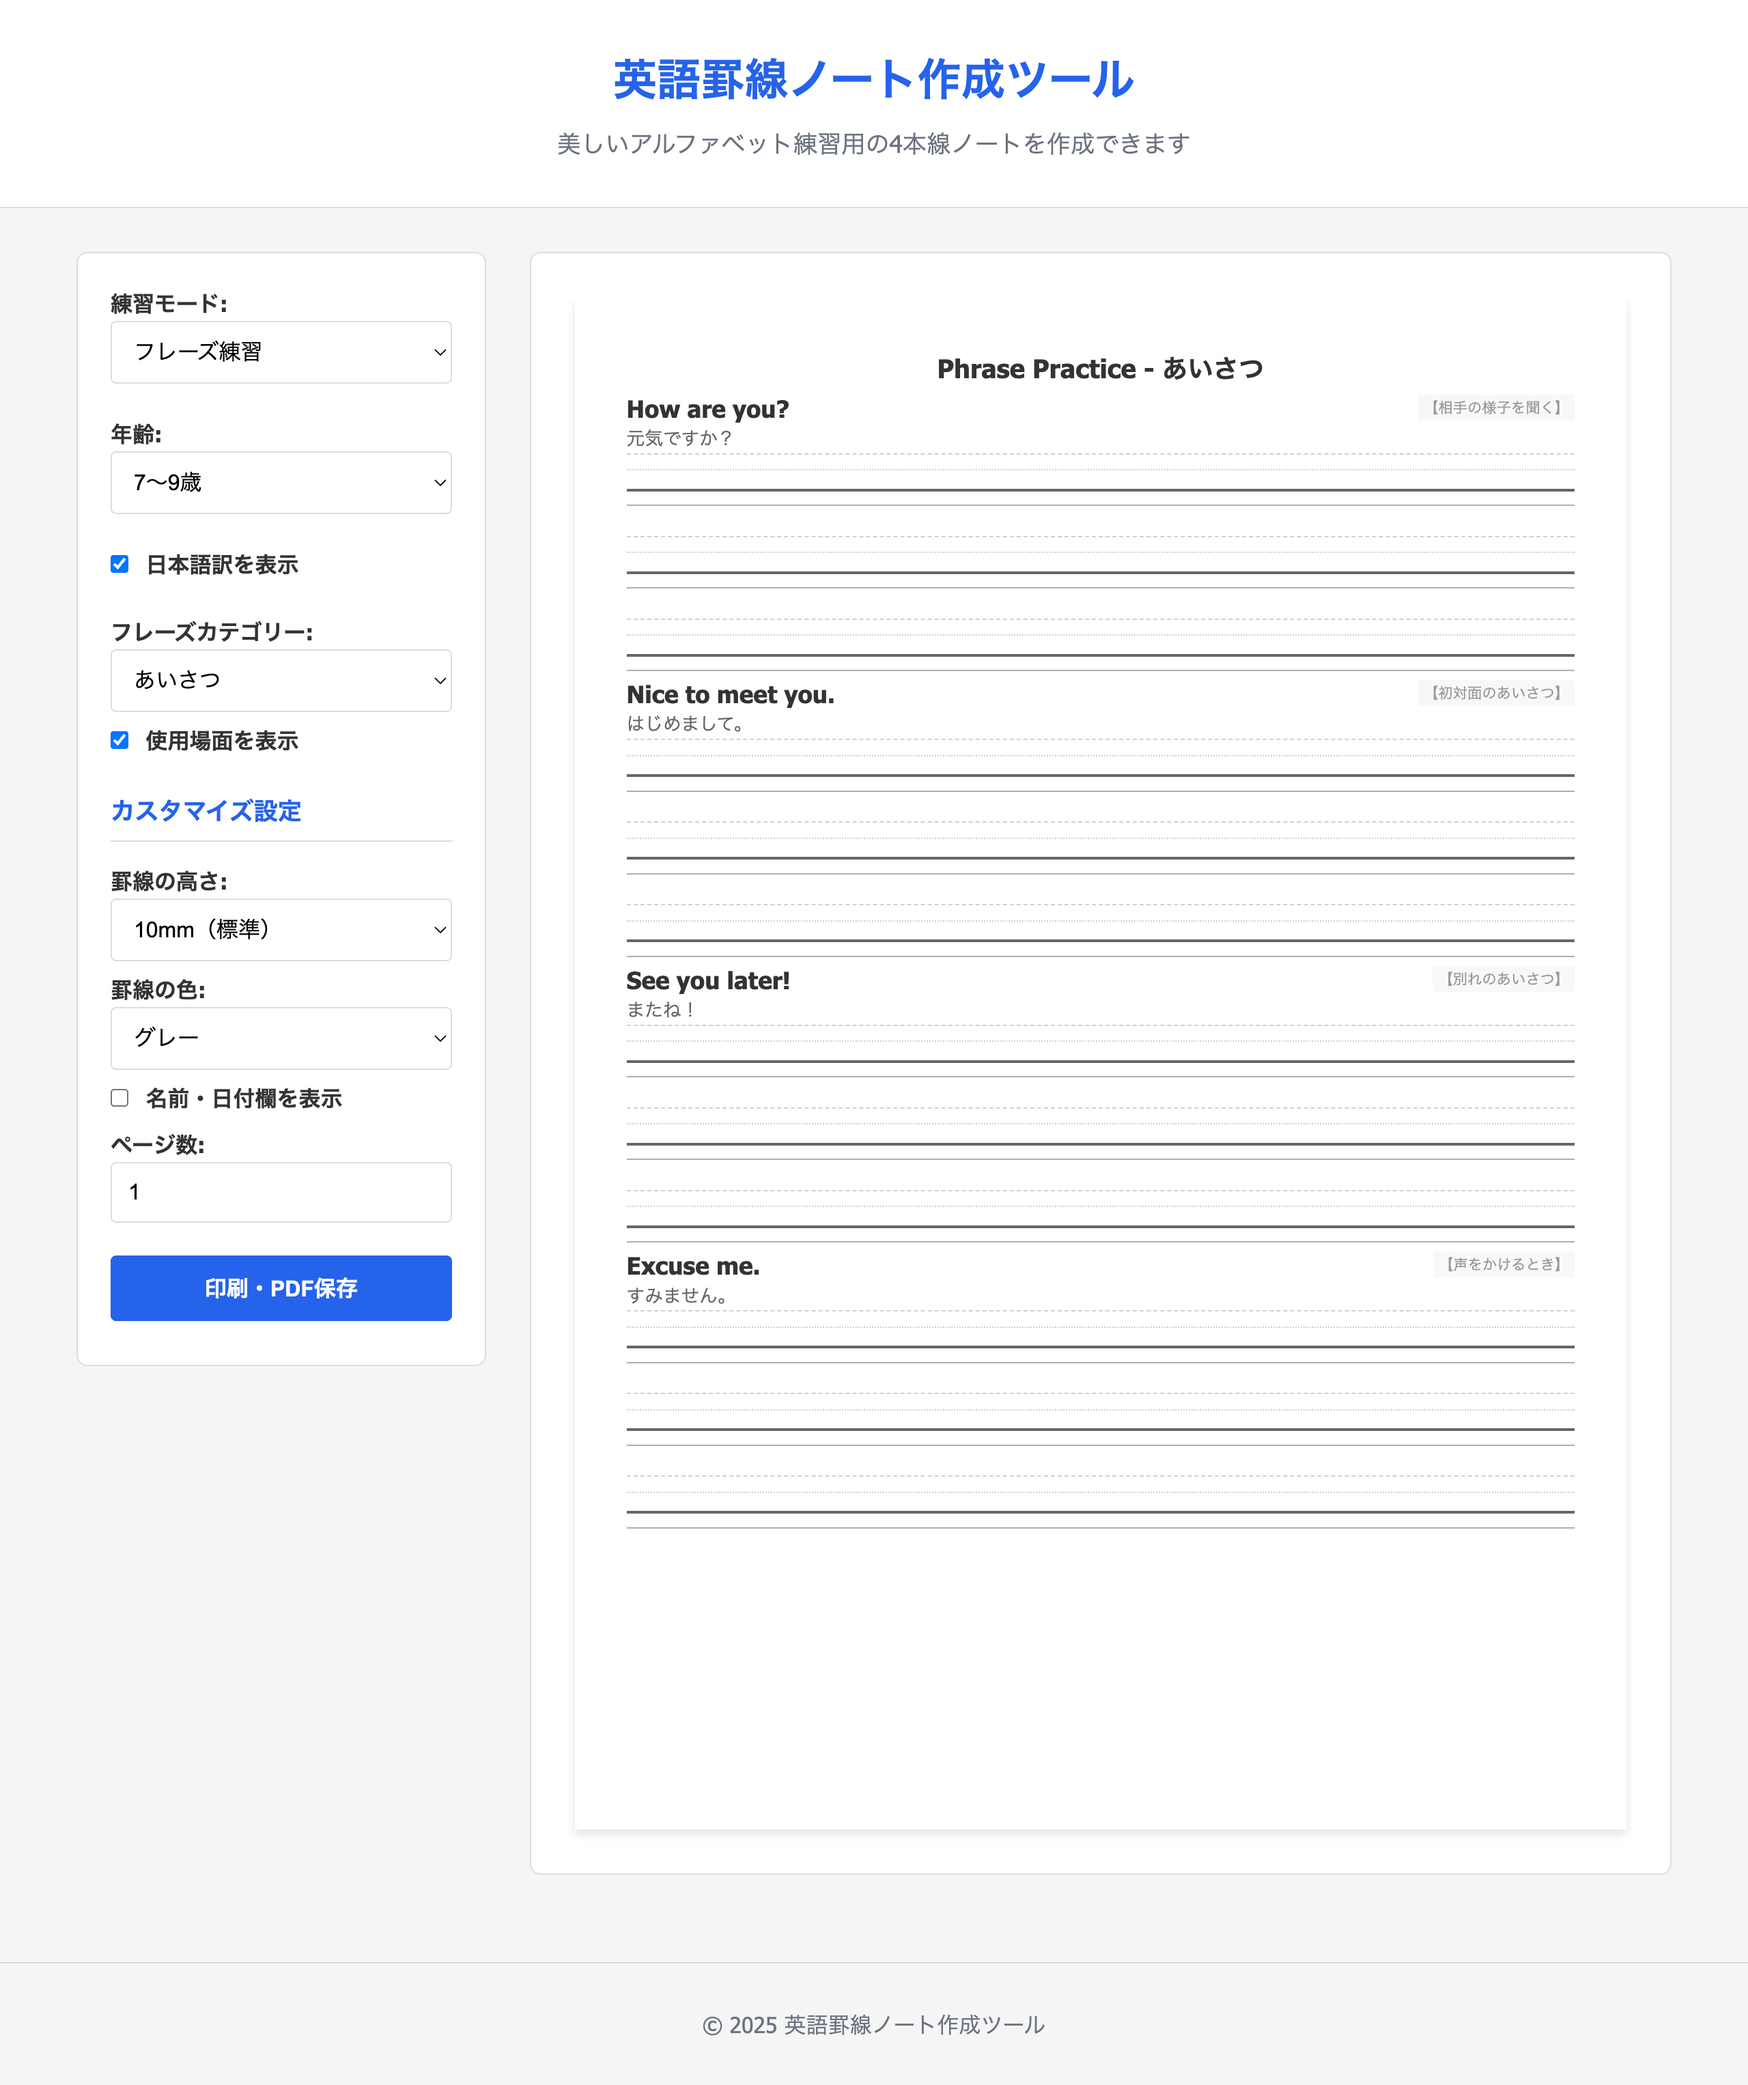
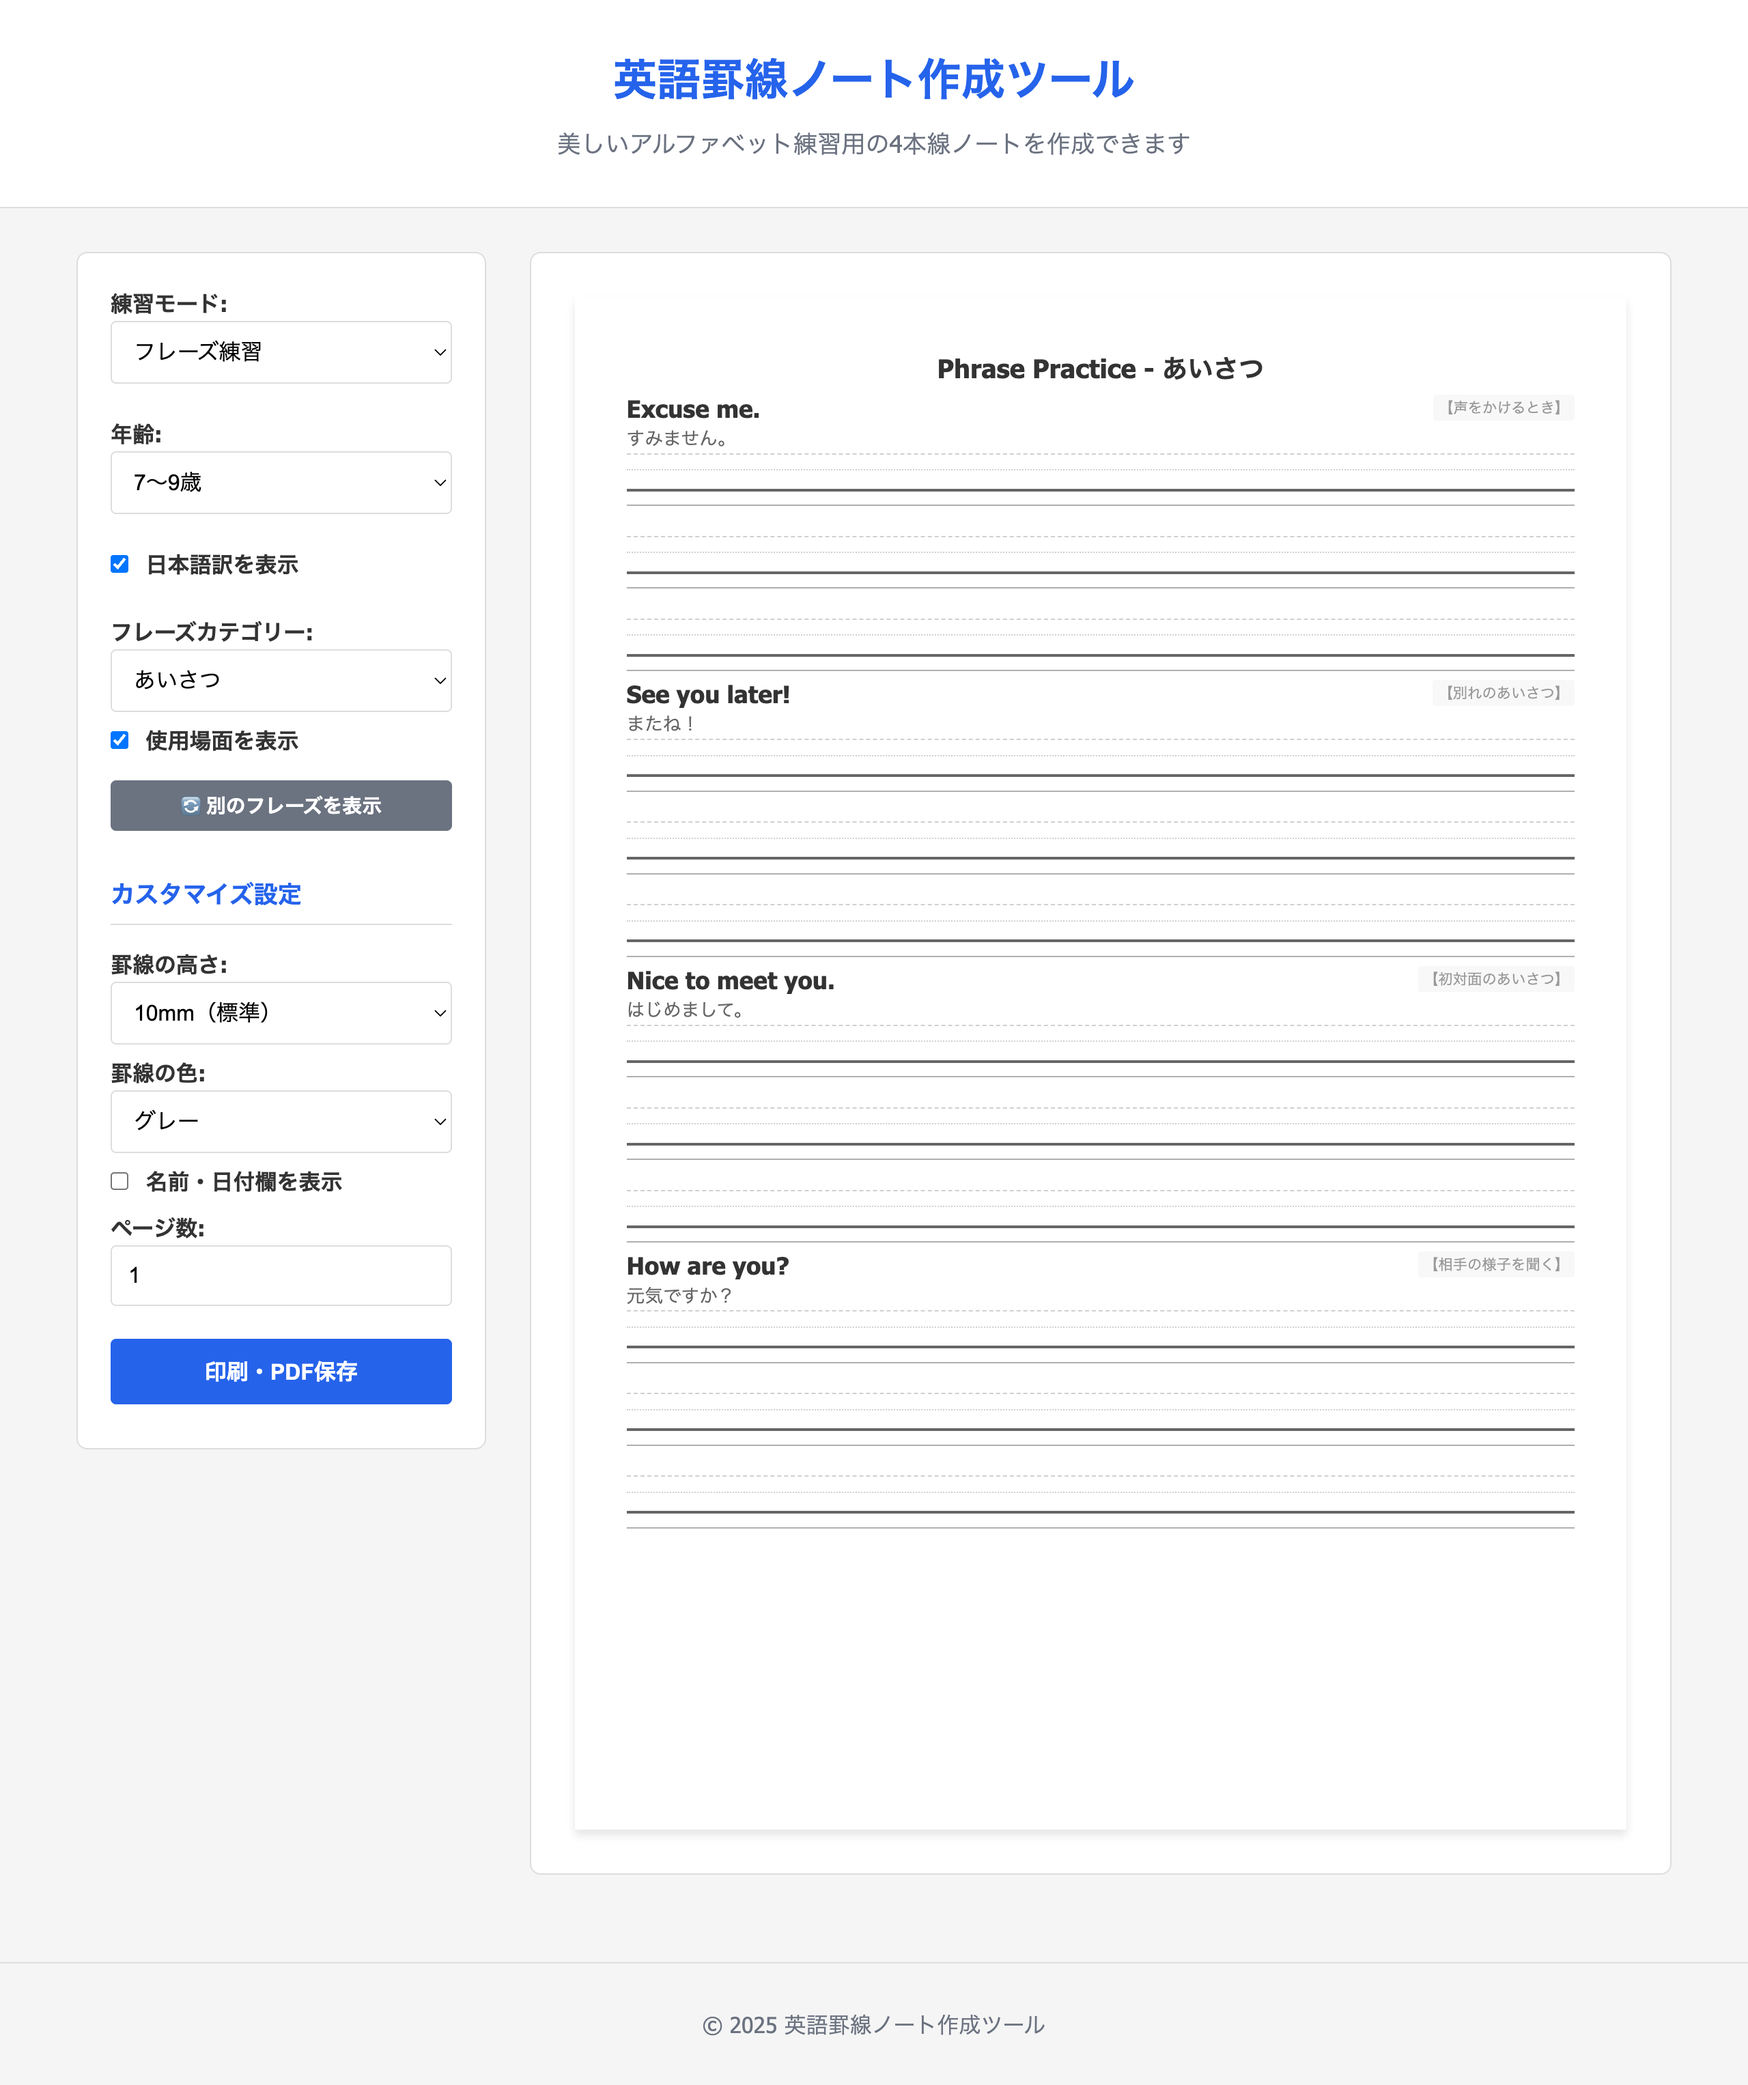
feat: add random phrase selection and shuffle button
- Implement random selection of 4 phrases from each category
- Add "🔄 別のフレーズを表示" button to refresh phrase selection
- Ensure all 139 phrases can be practiced (previously 27 were never shown)
- Improve coverage from 80.6% to 100% through randomization

This allows users to practice all available phrases by clicking the shuffle
button to see different sets of 4 phrases each time.

🤖 Generated with [Claude Code](https://claude.ai/code)

diff --git a/check-phrase-coverage.js b/check-phrase-coverage.js
@@ -1,0 +1,70 @@
+// フレーズカバレッジチェック
+const fs = require('fs');
+const path = require('path');
+
+// script.jsを読み込み
+const scriptContent = fs.readFileSync(path.join(__dirname, 'script.js'), 'utf8');
+
+// PHRASE_DATAを抽出
+const phraseDataMatch = scriptContent.match(/const PHRASE_DATA = ({[\s\S]*?});/);
+if (!phraseDataMatch) {
+    console.error('PHRASE_DATA not found');
+    process.exit(1);
+}
+
+// 簡易的な解析（実際のJavaScriptコードから抽出）
+console.log('📊 フレーズカテゴリー別の数量:\n');
+
+const categories = [
+    'greetings', 'self_introduction', 'school', 'shopping', 
+    'travel', 'feelings', 'daily_life', 'classroom_english',
+    'friend_making', 'cultural_exchange', 'emergency_situations'
+];
+
+const ageGroups = ['4-6', '7-9', '10-12'];
+
+let totalPhrases = 0;
+let displayedPhrases = 0;
+const maxDisplayed = 4; // 現在の表示上限
+
+categories.forEach(category => {
+    console.log(`\n【${category}】`);
+    ageGroups.forEach(age => {
+        // カテゴリーと年齢でフレーズを検索
+        const pattern = new RegExp(`${category}:[\\s\\S]*?"${age}":\\s*\\[([\\s\\S]*?)\\]`, 'g');
+        const matches = scriptContent.match(pattern);
+        
+        if (matches) {
+            // フレーズ数をカウント（english:の出現回数）
+            const phrasePattern = new RegExp(`english:\\s*"[^"]+"`,'g');
+            const fullMatch = scriptContent.match(new RegExp(`${category}:[\\s\\S]*?"${age}":\\s*\\[([\\s\\S]*?)\\]`));
+            if (fullMatch) {
+                const phraseMatches = fullMatch[1].match(phrasePattern);
+                const count = phraseMatches ? phraseMatches.length : 0;
+                
+                if (count > 0) {
+                    const displayed = Math.min(count, maxDisplayed);
+                    const notDisplayed = Math.max(0, count - maxDisplayed);
+                    
+                    console.log(`  ${age}歳: ${count}個 (表示: ${displayed}個, 非表示: ${notDisplayed}個)`);
+                    
+                    totalPhrases += count;
+                    displayedPhrases += displayed;
+                }
+            }
+        }
+    });
+});
+
+console.log('\n========================================');
+console.log(`📈 合計フレーズ数: ${totalPhrases}個`);
+console.log(`✅ 表示されるフレーズ: ${displayedPhrases}個`);
+console.log(`❌ 表示されないフレーズ: ${totalPhrases - displayedPhrases}個`);
+console.log(`📊 カバー率: ${((displayedPhrases / totalPhrases) * 100).toFixed(1)}%`);
+console.log('========================================');
+
+console.log('\n💡 改善案:');
+console.log('1. ランダム選択: 毎回異なる4つのフレーズを表示');
+console.log('2. 複数ページ: 全フレーズを複数ページに分割');
+console.log('3. シャッフルボタン: ユーザーが次のセットを選択可能');
+console.log('4. フレーズ数増加: 1ページあたりの表示数を増やす（レイアウト調整必要）');

diff --git a/script.js b/script.js
@@ -879,6 +879,7 @@ function setupEventListeners() {
     const showAlphabetExampleCheckbox = document.getElementById('showAlphabetExample');
     const phraseCategorySelect = document.getElementById('phraseCategory');
     const showSituationCheckbox = document.getElementById('showSituation');
+    const shufflePhrasesBtn = document.getElementById('shufflePhrases');
 
     // 更新イベントリスナー
     // practiceMode.addEventListener('change', updatePreview); // 削除（571行目で設定済み）
@@ -920,6 +921,13 @@ function setupEventListeners() {
     }
     if (showSituationCheckbox) {
         showSituationCheckbox.addEventListener('change', updatePreview);
+    }
+    
+    // フレーズシャッフルボタン
+    if (shufflePhrasesBtn) {
+        shufflePhrasesBtn.addEventListener('click', () => {
+            updatePreview();
+        });
     }
     
     // ボタンイベント
@@ -1460,7 +1468,9 @@ function generatePhrasePractice(showTranslation, ageGroup) {
                       PHRASE_DATA['greetings'][ageGroup] || PHRASE_DATA['greetings']['7-9'];
     
     // A4に収めるため4つのフレーズに制限（練習行3行ずつ）
-    const phrases = allPhrases.slice(0, 4);
+    // ランダムに4つ選択して、全てのフレーズが練習できるようにする
+    const shuffled = [...allPhrases].sort(() => 0.5 - Math.random());
+    const phrases = shuffled.slice(0, 4);
     
     const categoryNames = {
         greetings: 'あいさつ',

diff --git a/index.html b/index.html
@@ -129,6 +129,9 @@
                     <input type="checkbox" id="showSituation" class="controls__checkbox" checked>
                     使用場面を表示
                 </label>
+                <button id="shufflePhrases" class="btn btn--secondary" style="margin-top: 0.5rem;">
+                    🔄 別のフレーズを表示
+                </button>
             </div>
             
             <div class="controls__group" id="customExampleOptions" style="display: none;">
